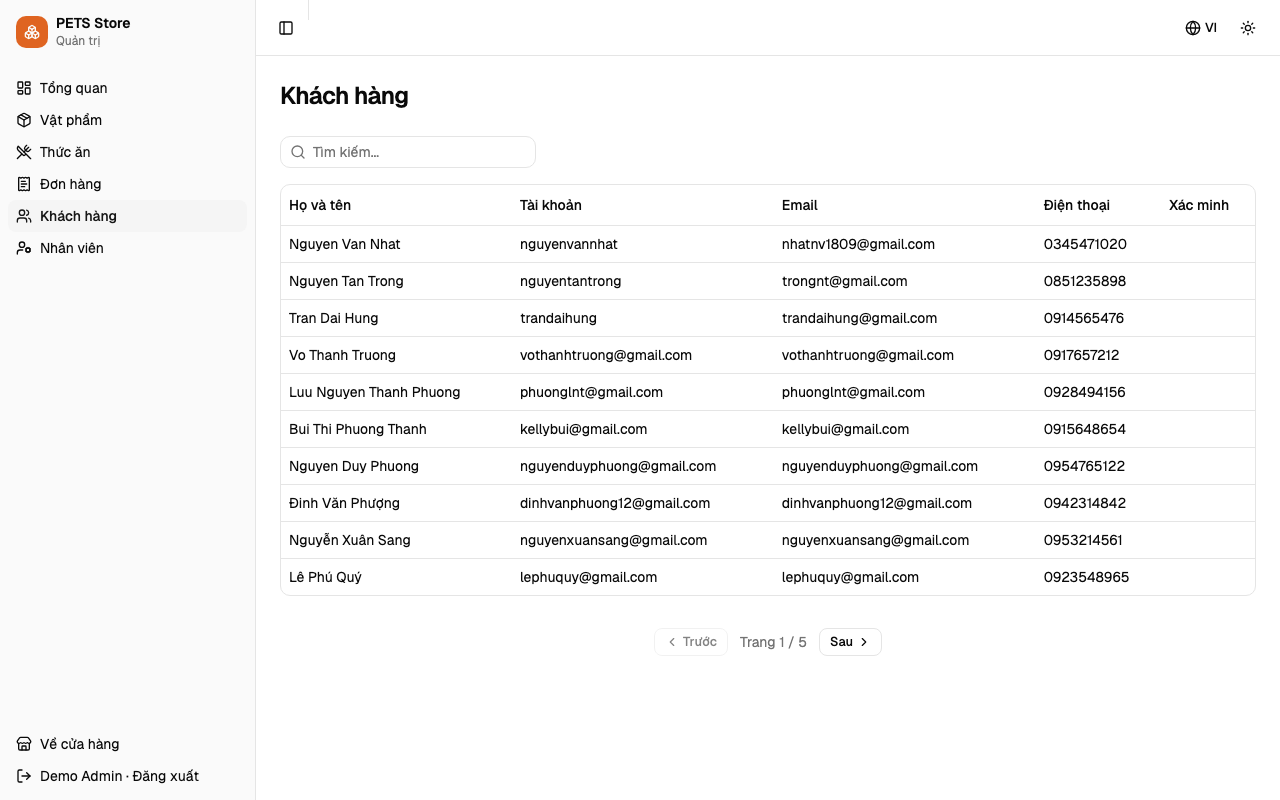
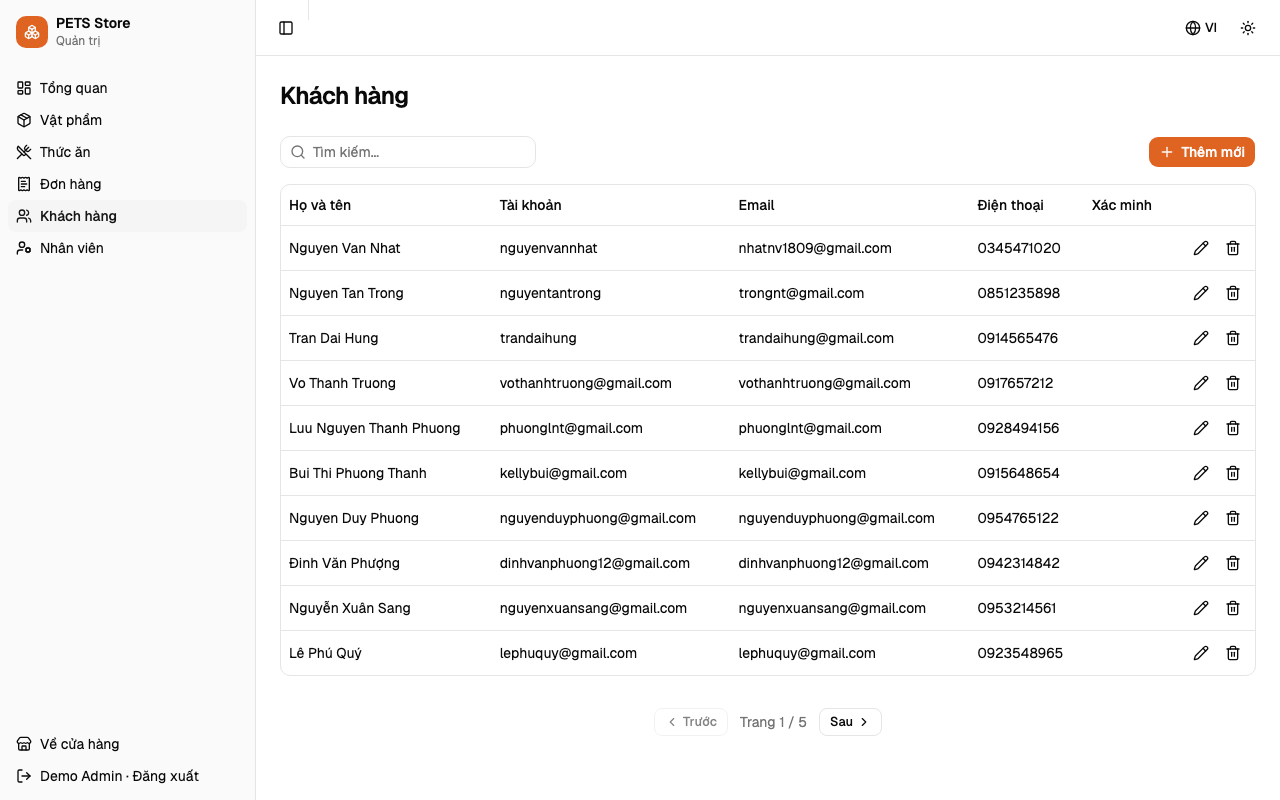
docs(web): README for new photo/contact URLs and accounts CRUD e2e; refresh screenshots

diff --git a/web/README.md b/web/README.md
@@ -40,7 +40,7 @@ docker build -t petstore-web --build-arg VITE_KEYCLOAK_URL=https://sso.example.c
 docker run -p 8483:80 petstore-web
 ```
 
-nginx inside listens on 80 and only serves the SPA (history fallback). `/api`, `/rest`, `/user-photos` (uploaded images) and `/contact` (contact form) must be proxied by the host nginx
+nginx inside listens on 80 and only serves the SPA (history fallback). `/api` (REST, uploaded photos under `/api/v1/photos/**` and the contact form `POST /api/v1/contact`) and `/rest` must be proxied by the host nginx
 to the Spring app (`127.0.0.1:8481` on the VM); the web container is published as `127.0.0.1:8483`.
 
 ## API integration (matched with phase A, branch dan-petstore-modernize)
@@ -57,10 +57,10 @@ to the Spring app (`127.0.0.1:8481` on the VM); the web container is published a
   address, phone and avatar editing from the old JSP are gone.
 - Dashboard totals are derived client side from `GET /admin/stats` (30-day revenue, state counts, `totalCustomers`).
 
-Gaps in the API the UI works around (report to backend):
-- No payment method on `POST /orders`: the COD/ATM choice is written into the order note as `[COD] ...`.
-- No contact endpoint: the form posts to the legacy JSP `/contact` (urlencoded). Behind nginx, `/contact` and `/user-photos`
-  must be proxied to the app next to `/api`.
+Contract changes being made on the backend (not regenerated yet, client waits for the backend merge):
+- `POST /orders` will accept `paymentMethod`; until then the COD/ATM choice is written into the order note as `[COD] ...`.
+- Contact form: `POST /api/v1/contact` (JSON `{name,email,message}`) through `CONTACT_PATH`; uploaded images are served from
+  `/api/v1/photos/**`. Both live in `src/api/urls.ts` (`imgUrl()` also maps the legacy `/user-photos/` prefix).
 - Seed data: all PAID orders are from 2020-21, so the 30-day revenue chart is flat until a new order is marked PAID;
   a few seeded orders have `state = null`.
 
@@ -73,7 +73,7 @@ cd web && pnpm exec playwright install chromium && pnpm test:e2e         # Vite 
 ```
 
 `e2e/1-storefront.spec.ts` (demo-user: login, buy, checkout, history; blocked from `/admin`) runs before `e2e/2-admin.spec.ts`
-(demo-admin: create/edit/delete a product with image, change an order state, dashboard, lists). Both write `docs/*.png`
+(demo-admin: product CRUD with image, order state, customers and employees CRUD, dashboard). Both write `docs/*.png`
 from real data. Files are named so the storefront order exists before the admin dashboard screenshot.
 
 Blog is static sample content (`src/data/blog.ts`), as in the JSP; there is no blog API.
